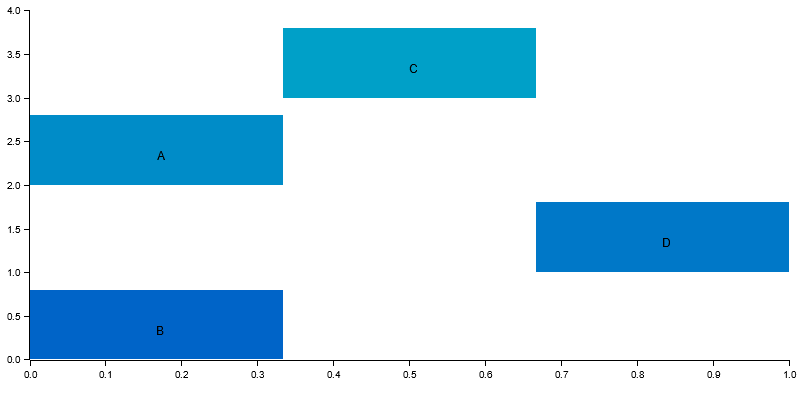
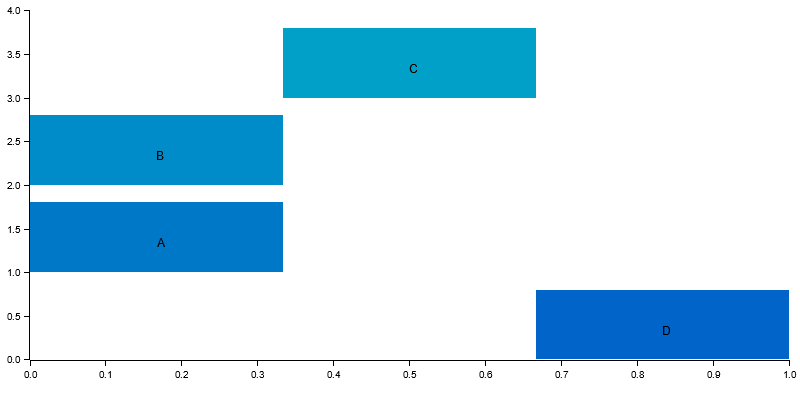
add: generate events

diff --git a/src_controller/src/interval/plot.rs b/src_controller/src/interval/plot.rs
@@ -1,45 +1,58 @@
 use petgraph::graph::{DiGraph, NodeIndex};
-use petgraph::algo::toposort;
+use petgraph::algo::{is_cyclic_directed, toposort};
 use plotters::prelude::*;
 use std::collections::HashMap;
 
-/// Generate an interval plot from a list of DAG constraints.
-/// `constraints` is a vector of (before, after) tuples.
-pub fn plot_intervals(constraints: Vec<(&str, &str)>, output_file: &str) -> Result<(), Box<dyn std::error::Error>> {
+/// Add a new constraint, validate, compute its interval, and save graph to PNG
+pub fn add_constraint_and_get_interval(
+    existing_constraints: Vec<(&str, &str)>,
+    new_constraint: (&str, &str),
+    output_file: &str,
+) -> Result<(f64, f64), Box<dyn std::error::Error>> {
     // --- Build DAG ---------------------------------------------------------
     let mut graph = DiGraph::<&str, ()>::new();
     let mut nodes: HashMap<&str, NodeIndex> = HashMap::new();
 
-    for &(a, b) in &constraints {
+    for &(a, b) in &existing_constraints {
         let a_idx = *nodes.entry(a).or_insert_with(|| graph.add_node(a));
         let b_idx = *nodes.entry(b).or_insert_with(|| graph.add_node(b));
         graph.add_edge(a_idx, b_idx, ());
     }
 
-    if !is_weakly_connected(&graph) {
-        return Err("Graph is not fully connected".into());
+    let (a, b) = new_constraint;
+    let a_idx = *nodes.entry(a).or_insert_with(|| graph.add_node(a));
+    let b_idx = *nodes.entry(b).or_insert_with(|| graph.add_node(b));
+    graph.add_edge(a_idx, b_idx, ());
+
+    // --- Validate interval graph ------------------------------------------
+    if !is_interval_graph(&graph) {
+        return Err("Adding this constraint breaks interval graph properties".into());
     }
 
     // --- Topological sort -------------------------------------------------
     let order = toposort(&graph, None).map_err(|_| "Graph has cycles")?;
 
-    // --- Earliest times ---------------------------------------------------
+    // --- Compute earliest times -------------------------------------------
     let mut earliest: HashMap<NodeIndex, f64> = HashMap::new();
     for &n in &order {
         let preds: Vec<_> = graph.neighbors_directed(n, petgraph::Incoming).collect();
-        let max_pred = preds.iter().map(|p| earliest.get(p).unwrap_or(&0.0)).cloned().fold(0.0, f64::max);
+        let max_pred = preds
+            .iter()
+            .map(|p| earliest.get(p).unwrap_or(&0.0))
+            .cloned()
+            .fold(0.0, f64::max);
         earliest.insert(n, max_pred + 1.0);
     }
 
-    // --- Latest times -----------------------------------------------------
+    // --- Compute latest times ---------------------------------------------
     let mut latest: HashMap<NodeIndex, f64> = HashMap::new();
     let max_earliest = *earliest.values().max_by(|a, b| a.partial_cmp(b).unwrap()).unwrap();
     for &n in order.iter().rev() {
         let succs: Vec<_> = graph.neighbors_directed(n, petgraph::Outgoing).collect();
-        let min_succ = succs.iter()
-            .map(|s| *latest.get(s).unwrap_or(&(max_earliest + 1.0)))  // dereference
+        let min_succ = succs
+            .iter()
+            .map(|s| *latest.get(s).unwrap_or(&(max_earliest + 1.0)))
             .fold(f64::INFINITY, f64::min);
-
         latest.insert(n, if min_succ.is_infinite() { max_earliest + 1.0 } else { min_succ - 1.0 });
     }
 
@@ -57,7 +70,7 @@ pub fn plot_intervals(constraints: Vec<(&str, &str)>, output_file: &str) -> Resu
         segments.insert(graph[node_idx], (start, end));
     }
 
-    // --- Plotting ---------------------------------------------------------
+    // --- Plot graph to PNG -------------------------------------------------
     let root = BitMapBackend::new(output_file, (800, (200 + 50 * segments.len()).try_into().unwrap())).into_drawing_area();
     root.fill(&WHITE)?;
 
@@ -82,21 +95,33 @@ pub fn plot_intervals(constraints: Vec<(&str, &str)>, output_file: &str) -> Resu
         )))?;
     }
 
-    Ok(())
+    // --- Return interval for new constraint --------------------------------
+    let start_new = (earliest[&a_idx] - min_e) / total_span;
+    let end_new = (latest[&b_idx] - min_e) / total_span;
+
+    Ok((start_new, end_new))
 }
 
-fn is_weakly_connected<N>(graph: &DiGraph<N, ()>) -> bool {
-    if graph.node_count() == 0 { return true; }
+/// Returns true if the graph is weakly connected and acyclic
+pub fn is_interval_graph<N>(graph: &DiGraph<N, ()>) -> bool {
+    if is_cyclic_directed(graph) {
+        return false;
+    }
+
+    if graph.node_count() == 0 {
+        return true;
+    }
 
     let mut visited = vec![false; graph.node_count()];
     let start = NodeIndex::new(0);
     let mut stack = vec![start];
 
     while let Some(node) = stack.pop() {
-        if visited[node.index()] { continue; }
+        if visited[node.index()] {
+            continue;
+        }
         visited[node.index()] = true;
 
-        // consider neighbors ignoring direction
         for neighbor in graph.neighbors(node).chain(graph.neighbors_directed(node, petgraph::Incoming)) {
             if !visited[neighbor.index()] {
                 stack.push(neighbor);
@@ -106,4 +131,3 @@ fn is_weakly_connected<N>(graph: &DiGraph<N, ()>) -> bool {
 
     visited.into_iter().all(|v| v)
 }
-

diff --git a/src_controller/src/io/client.rs b/src_controller/src/io/client.rs
@@ -1,7 +1,9 @@
 use tokio::io::{AsyncReadExt, AsyncWriteExt};
 use tokio::net::{TcpListener, TcpStream};
-use serde_json::Value;
+use serde_json::{json, Value};
 use crate::endpoints::init_map;
+use crate::generators::gen_events::gen_event;
+use crate::types::{Character, Event};
 
 pub async fn handle_client(mut stream: TcpStream) {
     let mut buffer = [0u8; 512];
@@ -37,6 +39,44 @@ pub async fn handle_client(mut stream: TcpStream) {
                                     let response_json = init_map(name.to_string(), true).await;
 
                                     if let Err(e) = stream.write_all(response_json.as_bytes()).await {
+                                        eprintln!("Failed to send INIT_MAP response: {}", e);
+                                        break;
+                                    }
+
+                                    continue;
+                                }
+                                else if let Some(gen_events_obj) = parsed_json.get("GEN_EVENTS") {
+                                    let n = gen_events_obj.get("n")
+                                        .and_then(|v| v.as_i64())
+                                        .unwrap_or(0);
+
+                                    let events: Vec<Event> = gen_events_obj
+                                        .get("events")
+                                        .and_then(|v| serde_json::from_value(v.clone()).ok())
+                                        .unwrap_or_else(|| vec![]);
+
+                                    let characters: Vec<Character> = gen_events_obj
+                                        .get("characters")
+                                        .and_then(|v| serde_json::from_value(v.clone()).ok())
+                                        .unwrap_or_else(|| vec![]);
+
+                                    println!("GEN_EVENTS requested for: {} events", n);
+
+                                    let mut new_events = Vec::new();
+
+                                    for _ in 0..n {
+                                        let e = gen_event(events.clone(), characters.clone());
+                                        new_events.push(e);
+                                    }
+
+                                    let response = json!({
+                                        "GEN_EVENTS": {
+                                            "events": new_events,
+                                        }
+                                    }).to_string();
+
+
+                                    if let Err(e) = stream.write_all(response.as_bytes()).await {
                                         eprintln!("Failed to send INIT_MAP response: {}", e);
                                         break;
                                     }

diff --git a/src_controller/src/generators/gen_events.rs b/src_controller/src/generators/gen_events.rs
@@ -1,0 +1,70 @@
+use rand::prelude::IndexedRandom;
+use rand::Rng;
+use crate::interval::plot::add_constraint_and_get_interval;
+use crate::types::{Character, Event};
+pub fn gen_event(
+    existing_events: Vec<Event>,
+    existing_characters: Vec<Character>,
+) -> Event {
+    let mut rng = rand::thread_rng();
+
+    // Possible event types and effects
+    let types = vec!["auxiliary", "catastrophe"];
+    let effects = vec!["death"];
+
+    // Randomly pick a type
+    let event_type = types.choose(&mut rng).unwrap().to_string();
+
+    // Determine possible effects
+    let event_effects = match event_type.as_str() {
+        "catastrophe" => {
+            if rng.gen_bool(0.5) {
+                vec!["death".to_string()]
+            } else {
+                vec![]
+            }
+        }
+        _ => vec![], // auxiliary events have no effects
+    };
+
+    // Pick a random existing event to be BEFORE
+    if existing_events.is_empty() {
+        panic!("No existing events to place this event before!");
+    }
+
+    let before_event = existing_events.choose(&mut rng).unwrap();
+    let mut before_list = vec![before_event.name.clone()];
+
+    // Add constraint and get interval
+    let constraints: Vec<(&str, &str)> = existing_events
+        .iter()
+        .flat_map(|e| before_list.iter().map(move |b| (e.name.as_str(), b.as_str())))
+        .collect();
+
+
+
+    let interval = add_constraint_and_get_interval(
+        constraints,
+        (&*String::from("NEW_EVENT"), &*before_event.name.clone()),
+        "intervals.png",
+    )
+        .unwrap_or((0.0, 1.0));
+
+    // Determine characters affected
+    let characters = if event_effects.contains(&"death".to_string()) && !existing_characters.is_empty() {
+        vec![existing_characters.choose(&mut rng).unwrap().clone()]
+    } else {
+        vec![]
+    };
+
+    Event {
+        name: format!("Event_{}", rng.r#gen::<u32>()),
+        description: format!("A {} event.", event_type),
+        before: before_list,
+        start: interval.0,
+        end: interval.1,
+        _type: event_type,
+        characters,
+        effects: event_effects,
+    }
+}

diff --git a/src_controller/src/main.rs b/src_controller/src/main.rs
@@ -9,7 +9,7 @@ mod interval;
 
 use std::error::Error;
 use tokio::io::{AsyncReadExt, AsyncWriteExt};
-use crate::interval::plot::plot_intervals;
+use crate::interval::plot::{add_constraint_and_get_interval};
 use crate::io::client::handle_client;
 
 #[tokio::main]
@@ -19,11 +19,10 @@ async fn main() -> Result<(), Box<dyn Error>> {
         ("A", "D"),
         ("B", "C"),
         ("B", "D"),
-        ("C", "D"),
     ];
 
 
-    plot_intervals(constraints, "intervals.png")?;
+    add_constraint_and_get_interval(constraints, ("C", "D"), "intervals.png")?;
 
 
     init_connection().await;

diff --git a/src_controller/src/types.rs b/src_controller/src/types.rs
@@ -77,12 +77,31 @@ pub(crate) enum Faction {
 
 #[derive(Clone, Serialize, Deserialize)]
 pub struct Event {
+    #[serde(default)]
     pub name: String,
+
+    #[serde(default)]
     pub description: String,
+
+    #[serde(default)]
     pub before: Vec<String>,
+
+    #[serde(default)]
     pub start: f64,
-    pub end: f64
+
+    #[serde(default)]
+    pub end: f64,
+
+    #[serde(default)]
+    pub _type: String,
+
+    #[serde(default)]
+    pub characters: Vec<Character>,
+
+    #[serde(default)]
+    pub effects: Vec<String>,
 }
+
 
 pub type Ownership = HashMap<Place, Faction>;
 

diff --git a/src_controller/src/generators/mod.rs b/src_controller/src/generators/mod.rs
@@ -1,2 +1,3 @@
 pub mod gen_names;
 pub mod gen_places;
+pub mod gen_events;
